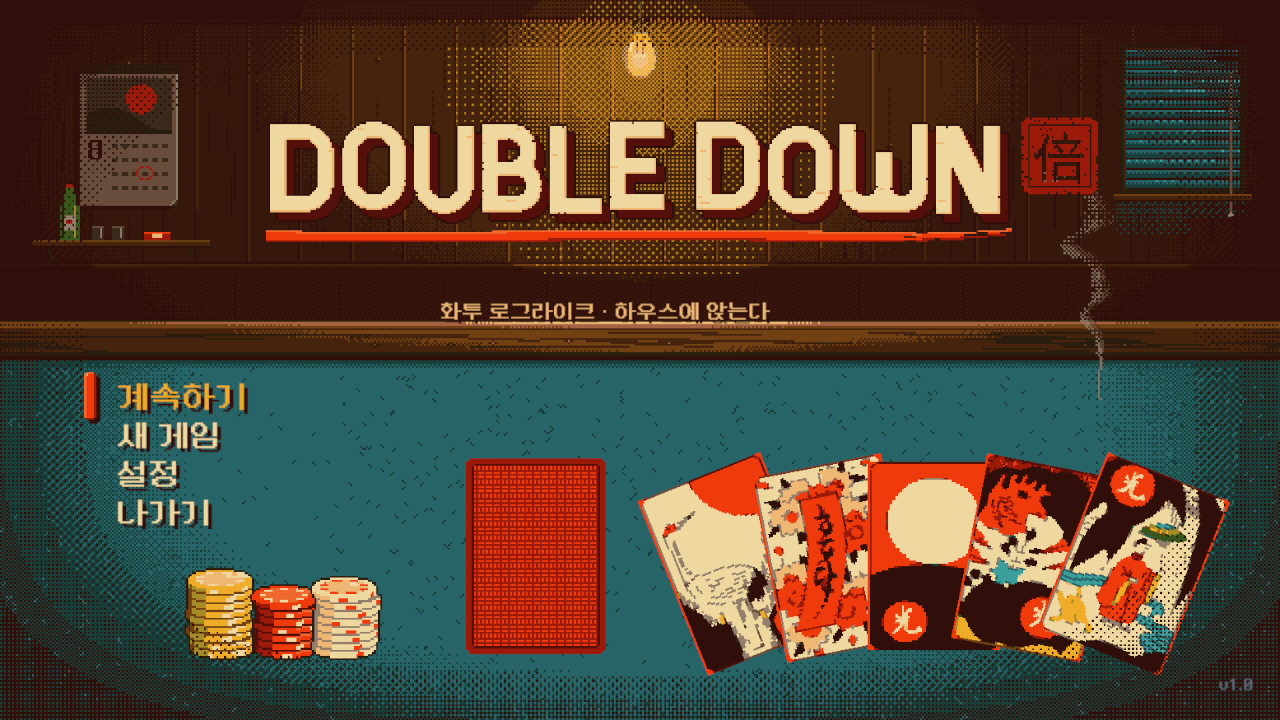
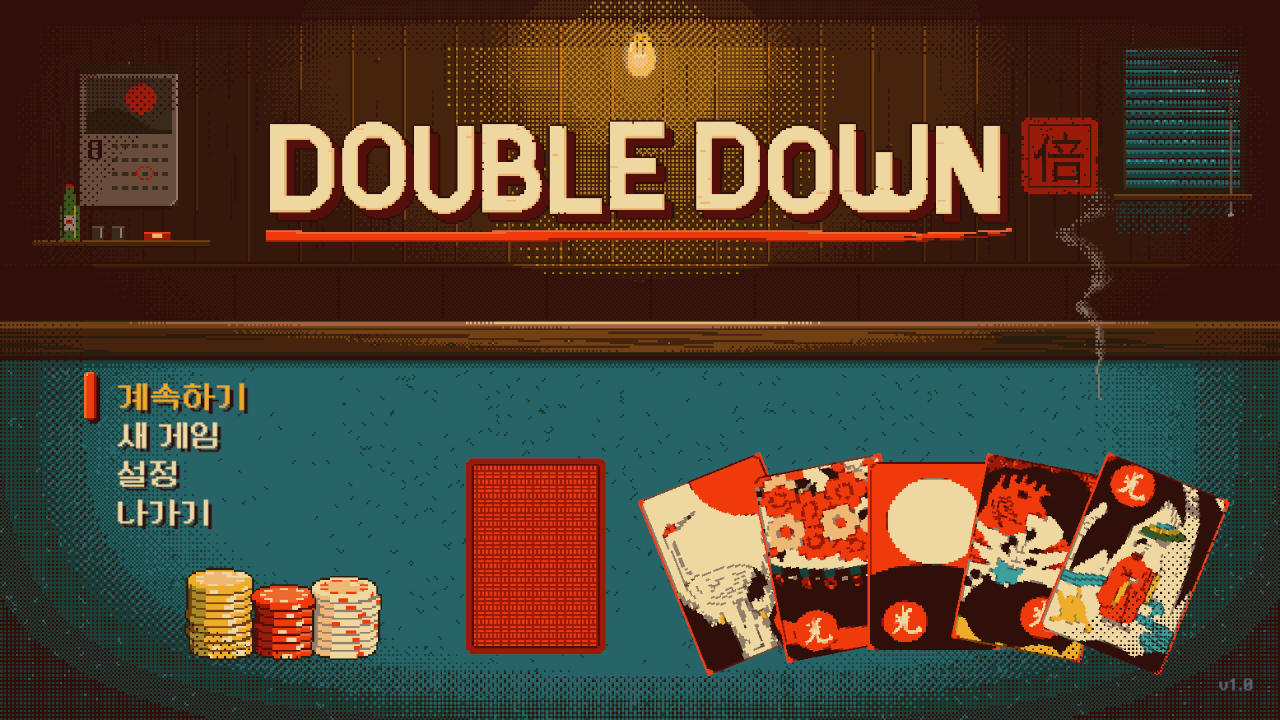
문서: double-down-title-continue-plan에 부제 제거와 오광 부채를 적는다
- 2026-11-08 사용자 요청 두 건(부제 제거, 3월 홍단 → 3월 광)과 커밋을 남기고 완성 화면을 바꾼다
- 플레이 중 runInBackground eval이 ProjectSettings에 저장되는 함정을 기록한다

Changed region(s): [[0.5938, 0.6417, 0.6875, 0.9167], [0.3438, 0.3972, 0.5938, 0.4583], [0.8125, 0.275, 0.875, 0.5194]]

diff --git a/reports/double-down-title-continue-plan.md b/reports/double-down-title-continue-plan.md
@@ -174,3 +174,9 @@ Easy Save 3는 설치돼 있지만 쓰지 않는다. asmdef가 없어 `DoubleDow
 | 클리어 뒤 자동 새 런 | 그 런이 저장되어 다음 실행의 계속하기가 1막 새 런을 연다(§5) |
 | 소리, 배경 모션 끄기 | 범위 밖(자산 0건, 설정 화면 없음) |
 | 개발용 저장 파일 | `%USERPROFILE%/AppData/LocalLow/DefaultCompany/Double Down/run.json`. 탐침이 남긴 새 런 하나가 있다 |
+
+### 이후 변경 (2026-11-08, 사용자 요청)
+
+- 부제 "화투 로그라이크 · 하우스에 앉는다"를 뺐다(Double Down `16b4066`). 굽기 도구가 부제를 세우지 않고, 남은 두 칸은 옛 간판처럼 굽기 때 지운다. §2-3의 부제 결정과 C6 메모의 그림자 설명은 그때의 기록이다.
+- 화투 부채 둘째 장을 3월 홍단에서 3월 광으로 바꿨다(`c44ae02`). 부채 다섯 장이 오광이 된다. 위의 완성 화면 이미지는 두 변경 뒤의 화면이다.
+- **도구 함정**: 에디터 플레이 중 eval로 `Application.runInBackground = true`를 넣으면 `ProjectSettings.asset`의 `runInBackground`가 1로 저장된다. 탐침 뒤 `PlayerSettings.runInBackground = false`로 되돌리고 `git status`로 확인한다. `.claude/rules/unity-live-editor.md`가 이 eval을 권하므로 같은 경고가 필요하다.
